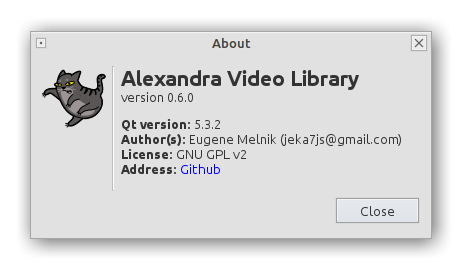
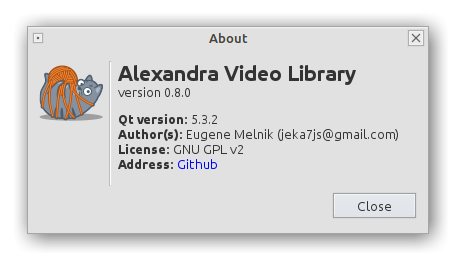
v0.8

Changed region(s): [[0.061, 0.0909, 0.9455, 0.9091]]

diff --git a/src/version.h b/src/version.h
@@ -16,7 +16,7 @@ namespace Alexandra
         const QString orgDomain = "higggs.com";
 
         const quint8 major = 0;
-        const quint8 minor = 7;
+        const quint8 minor = 8;
         const quint8 fix = 0;
         const QString appVersionFull = QString( "%1.%2.%3" ).arg( major ).arg( minor ).arg( fix );
 

diff --git a/README.md b/README.md
@@ -1,5 +1,5 @@
 ### Alexandra Video library
-#### v0.7
+#### v0.8
 
 ===
 
@@ -24,8 +24,8 @@
 ###### Main menu
 ![Main menu](/doc/screenshots/02_MainMenu.png "Main menu")
 
-###### Add film window
-![Add film window](/doc/screenshots/03_AddFilmWindow.png "Add film window")
+###### Add film window (and Edit film window)
+![Add and Edit film window](/doc/screenshots/03_AddEditFilmWindow.png "Add and Edit film window")
 
 ###### Remove film window
 ![Remove film window](/doc/screenshots/04_RemoveFilmWindow.png "Remove film window")
